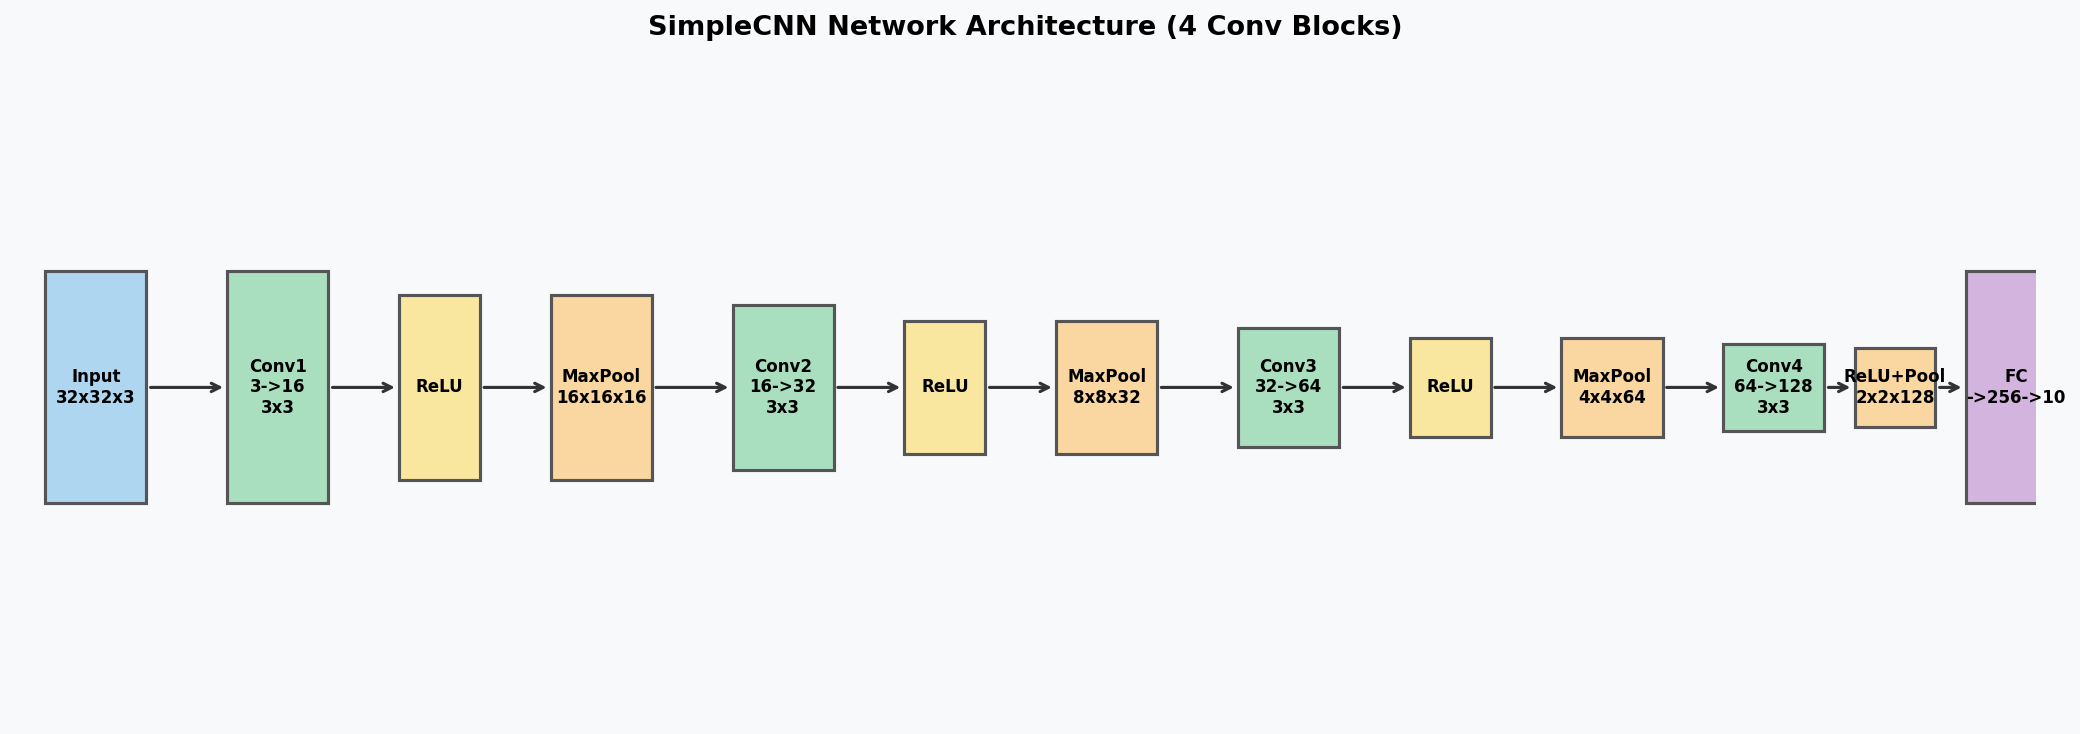
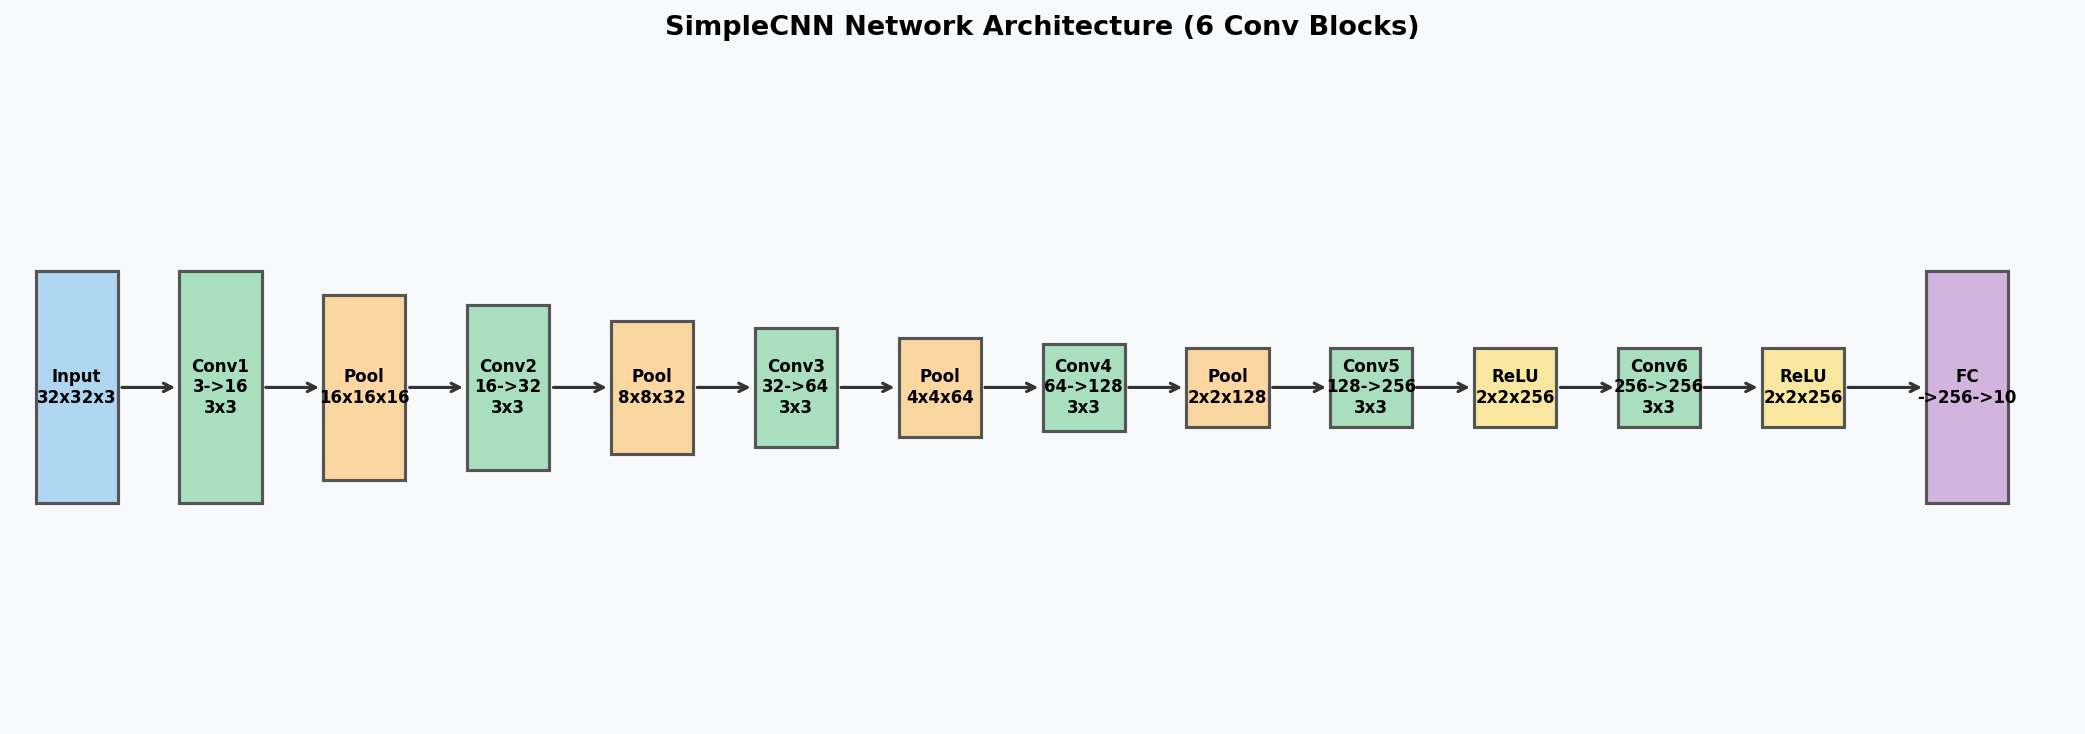
feat: add Conv5/Conv6 blocks to create 6-layer architecture (deeper-6conv)

Changed region(s): [[0.0, 0.3597, 1.0, 0.6894], [0.3125, 0.0, 0.6875, 0.0599]]

diff --git a/cnn_visualize.py b/cnn_visualize.py
@@ -2,11 +2,13 @@
 CNN Training & Visualization Sample (study session)
 Dataset : CIFAR-10 (auto-download)
 Network :
-    Conv1(3->16,  3x3) -> ReLU -> MaxPool(2x2)   32x32 -> 16x16
-    Conv2(16->32, 3x3) -> ReLU -> MaxPool(2x2)   16x16 ->  8x8
-    Conv3(32->64, 3x3) -> ReLU -> MaxPool(2x2)    8x8  ->  4x4
-    Conv4(64->128,3x3) -> ReLU -> MaxPool(2x2)    4x4  ->  2x2
-    Flatten -> FC(128x2x2->256) -> ReLU -> FC(256->10)
+    Conv1(3->16,   3x3) -> ReLU -> MaxPool(2x2)   32x32 -> 16x16
+    Conv2(16->32,  3x3) -> ReLU -> MaxPool(2x2)   16x16 ->  8x8
+    Conv3(32->64,  3x3) -> ReLU -> MaxPool(2x2)    8x8  ->  4x4
+    Conv4(64->128, 3x3) -> ReLU -> MaxPool(2x2)    4x4  ->  2x2
+    Conv5(128->256,3x3) -> ReLU                    2x2  ->  2x2  (no pool)
+    Conv6(256->256,3x3) -> ReLU                    2x2  ->  2x2  (no pool)
+    Flatten -> FC(256x2x2->256) -> ReLU -> FC(256->10)
 
 Output files:
     output/01_network_architecture.png  network architecture diagram
@@ -16,8 +18,10 @@ Output files:
     output/05_conv2_feature_maps.png    Conv2 feature maps (single test image)
     output/06_conv3_feature_maps.png    Conv3 feature maps (single test image)
     output/07_conv4_feature_maps.png    Conv4 feature maps (single test image)
-    output/08_activation_comparison.png activation distribution before/after ReLU
-    output/09_test_predictions.png      test image prediction results
+    output/08_conv5_feature_maps.png    Conv5 feature maps (single test image)
+    output/09_conv6_feature_maps.png    Conv6 feature maps (single test image)
+    output/10_activation_comparison.png activation distribution before/after ReLU
+    output/11_test_predictions.png      test image prediction results
 """
 
 import os
@@ -55,11 +59,13 @@ print(f"Device: {DEVICE}")
 # PPPPPPPPPPPPPPPPPPPPPPPPPPPPPPPPPPPPPPPPPPPPPPPPPPPPPPPPPP
 class SimpleCNN(nn.Module):
     """
-    Conv(3->16)   -> ReLU -> MaxPool   32x32 -> 16x16
-    Conv(16->32)  -> ReLU -> MaxPool   16x16 ->  8x8
-    Conv(32->64)  -> ReLU -> MaxPool    8x8  ->  4x4
-    Conv(64->128) -> ReLU -> MaxPool    4x4  ->  2x2
-    FC(128x2x2->256) -> ReLU -> FC(256->10)
+    Conv(3->16)    -> ReLU -> MaxPool   32x32 -> 16x16
+    Conv(16->32)   -> ReLU -> MaxPool   16x16 ->  8x8
+    Conv(32->64)   -> ReLU -> MaxPool    8x8  ->  4x4
+    Conv(64->128)  -> ReLU -> MaxPool    4x4  ->  2x2
+    Conv(128->256) -> ReLU               2x2  ->  2x2  (no pool)
+    Conv(256->256) -> ReLU               2x2  ->  2x2  (no pool)
+    FC(256x2x2->256) -> ReLU -> FC(256->10)
     """
     def __init__(self):
         super().__init__()
@@ -83,9 +89,17 @@ class SimpleCNN(nn.Module):
                                kernel_size=3, padding=1)
         self.pool4 = nn.MaxPool2d(kernel_size=2, stride=2)
 
+        # block 5 (no pool: spatial size is already 2x2)
+        self.conv5 = nn.Conv2d(in_channels=128, out_channels=256,
+                               kernel_size=3, padding=1)
+
+        # block 6 (no pool)
+        self.conv6 = nn.Conv2d(in_channels=256, out_channels=256,
+                               kernel_size=3, padding=1)
+
         # fully connected layers
-        # CIFAR-10: 32x32 -> 16x16 -> 8x8 -> 4x4 -> 2x2
-        self.fc1 = nn.Linear(128 * 2 * 2, 256)
+        # CIFAR-10: 32x32 -> 16x16 -> 8x8 -> 4x4 -> 2x2 (conv5,6 keep 2x2)
+        self.fc1 = nn.Linear(256 * 2 * 2, 256)
         self.fc2 = nn.Linear(256, 10)
 
         self.relu = nn.ReLU()
@@ -95,6 +109,8 @@ class SimpleCNN(nn.Module):
         x = self.pool2(self.relu(self.conv2(x)))
         x = self.pool3(self.relu(self.conv3(x)))
         x = self.pool4(self.relu(self.conv4(x)))
+        x = self.relu(self.conv5(x))
+        x = self.relu(self.conv6(x))
         x = x.view(x.size(0), -1)   # Flatten
         x = self.relu(self.fc1(x))
         x = self.fc2(x)
@@ -120,6 +136,12 @@ class SimpleCNN(nn.Module):
         after_relu4 = self.relu(after_conv4)
         after_pool4 = self.pool4(after_relu4)
 
+        after_conv5 = self.conv5(after_pool4)
+        after_relu5 = self.relu(after_conv5)
+
+        after_conv6 = self.conv6(after_relu5)
+        after_relu6 = self.relu(after_conv6)
+
         out["conv1_before_relu"] = after_conv1.detach()
         out["conv1_after_relu"]  = after_relu1.detach()
         out["pool1"]             = after_pool1.detach()
@@ -132,6 +154,10 @@ class SimpleCNN(nn.Module):
         out["conv4_before_relu"] = after_conv4.detach()
         out["conv4_after_relu"]  = after_relu4.detach()
         out["pool4"]             = after_pool4.detach()
+        out["conv5_before_relu"] = after_conv5.detach()
+        out["conv5_after_relu"]  = after_relu5.detach()
+        out["conv6_before_relu"] = after_conv6.detach()
+        out["conv6_after_relu"]  = after_relu6.detach()
         return out
 
 
@@ -235,19 +261,20 @@ def save_network_architecture():
 
     # block definition: (x_center, y_center, width, height, label, color)
     blocks = [
-        (0.04, 0.5, 0.05, 0.35, "Input\n32x32x3",       "#AED6F1"),
-        (0.13, 0.5, 0.05, 0.35, "Conv1\n3->16\n3x3",    "#A9DFBF"),
-        (0.21, 0.5, 0.04, 0.28, "ReLU",                 "#F9E79F"),
-        (0.29, 0.5, 0.05, 0.28, "MaxPool\n16x16x16",    "#FAD7A0"),
-        (0.38, 0.5, 0.05, 0.25, "Conv2\n16->32\n3x3",   "#A9DFBF"),
-        (0.46, 0.5, 0.04, 0.20, "ReLU",                 "#F9E79F"),
-        (0.54, 0.5, 0.05, 0.20, "MaxPool\n8x8x32",      "#FAD7A0"),
-        (0.63, 0.5, 0.05, 0.18, "Conv3\n32->64\n3x3",   "#A9DFBF"),
-        (0.71, 0.5, 0.04, 0.15, "ReLU",                 "#F9E79F"),
-        (0.79, 0.5, 0.05, 0.15, "MaxPool\n4x4x64",      "#FAD7A0"),
-        (0.87, 0.5, 0.05, 0.13, "Conv4\n64->128\n3x3",  "#A9DFBF"),
-        (0.93, 0.5, 0.04, 0.12, "ReLU+Pool\n2x2x128",  "#FAD7A0"),
-        (0.99, 0.5, 0.05, 0.35, "FC\n->256->10",        "#D2B4DE"),
+        (0.03, 0.5, 0.04, 0.35, "Input\n32x32x3",        "#AED6F1"),
+        (0.10, 0.5, 0.04, 0.35, "Conv1\n3->16\n3x3",     "#A9DFBF"),
+        (0.17, 0.5, 0.04, 0.28, "Pool\n16x16x16",        "#FAD7A0"),
+        (0.24, 0.5, 0.04, 0.25, "Conv2\n16->32\n3x3",    "#A9DFBF"),
+        (0.31, 0.5, 0.04, 0.20, "Pool\n8x8x32",          "#FAD7A0"),
+        (0.38, 0.5, 0.04, 0.18, "Conv3\n32->64\n3x3",    "#A9DFBF"),
+        (0.45, 0.5, 0.04, 0.15, "Pool\n4x4x64",          "#FAD7A0"),
+        (0.52, 0.5, 0.04, 0.13, "Conv4\n64->128\n3x3",   "#A9DFBF"),
+        (0.59, 0.5, 0.04, 0.12, "Pool\n2x2x128",         "#FAD7A0"),
+        (0.66, 0.5, 0.04, 0.12, "Conv5\n128->256\n3x3",  "#A9DFBF"),
+        (0.73, 0.5, 0.04, 0.12, "ReLU\n2x2x256",         "#F9E79F"),
+        (0.80, 0.5, 0.04, 0.12, "Conv6\n256->256\n3x3",  "#A9DFBF"),
+        (0.87, 0.5, 0.04, 0.12, "ReLU\n2x2x256",         "#F9E79F"),
+        (0.95, 0.5, 0.04, 0.35, "FC\n->256->10",         "#D2B4DE"),
     ]
 
     for (x, y, w, h, label, color) in blocks:
@@ -268,7 +295,7 @@ def save_network_architecture():
 
     ax.set_xlim(0, 1)
     ax.set_ylim(0, 1)
-    ax.set_title("SimpleCNN Network Architecture (4 Conv Blocks)", fontsize=13, fontweight="bold", pad=10)
+    ax.set_title("SimpleCNN Network Architecture (6 Conv Blocks)", fontsize=13, fontweight="bold", pad=10)
 
     path = os.path.join(OUTPUT_DIR, "01_network_architecture.png")
     plt.tight_layout()
@@ -364,12 +391,15 @@ def save_feature_maps(model, image_tensor, label_idx, layer="conv1"):
     ax_img.axis("off")
 
     layer_labels = {
-        "conv1": "Conv1 (16ch, 16x16)",
-        "conv2": "Conv2 (32ch,  8x8)",
-        "conv3": "Conv3 (64ch,  4x4)",
-        "conv4": "Conv4 (128ch, 2x2)",
+        "conv1": "Conv1 (16ch,  16x16)",
+        "conv2": "Conv2 (32ch,   8x8)",
+        "conv3": "Conv3 (64ch,   4x4)",
+        "conv4": "Conv4 (128ch,  2x2)",
+        "conv5": "Conv5 (256ch,  2x2)",
+        "conv6": "Conv6 (256ch,  2x2)",
     }
-    layer_suffixes = {"conv1": "04", "conv2": "05", "conv3": "06", "conv4": "07"}
+    layer_suffixes = {"conv1": "04", "conv2": "05", "conv3": "06",
+                      "conv4": "07", "conv5": "08", "conv6": "09"}
     fig.suptitle(f"{layer_labels[layer]} Feature Maps (after ReLU)\n"
                  "Brighter = stronger activation",
                  fontsize=11, fontweight="bold", y=1.01)
@@ -397,7 +427,7 @@ def save_activation_comparison(model, image_tensor):
     with torch.no_grad():
         feat_maps = model.get_feature_maps(image_tensor.unsqueeze(0).to(DEVICE))
 
-    fig, axes = plt.subplots(4, 2, figsize=(12, 16))
+    fig, axes = plt.subplots(6, 2, figsize=(12, 22))
     fig.suptitle("Activation Distribution: Before vs After ReLU", fontsize=12, fontweight="bold")
 
     pairs = [
@@ -405,6 +435,8 @@ def save_activation_comparison(model, image_tensor):
         ("conv2_before_relu", "conv2_after_relu", "Conv2"),
         ("conv3_before_relu", "conv3_after_relu", "Conv3"),
         ("conv4_before_relu", "conv4_after_relu", "Conv4"),
+        ("conv5_before_relu", "conv5_after_relu", "Conv5"),
+        ("conv6_before_relu", "conv6_after_relu", "Conv6"),
     ]
 
     for row, (key_before, key_after, title) in enumerate(pairs):
@@ -430,7 +462,7 @@ def save_activation_comparison(model, image_tensor):
                   bbox=dict(boxstyle="round", facecolor="#F9E79F", alpha=0.8))
 
     plt.tight_layout()
-    path = os.path.join(OUTPUT_DIR, "08_activation_comparison.png")
+    path = os.path.join(OUTPUT_DIR, "10_activation_comparison.png")
     plt.savefig(path, dpi=150, bbox_inches="tight")
     plt.close()
     print(f"Saved: {path}")
@@ -456,8 +488,11 @@ def save_feature_maps_overlay(model, image_tensor, label_idx, layer="conv1"):
         "conv2": "Conv2 (32ch,  8x8)",
         "conv3": "Conv3 (64ch,  4x4)",
         "conv4": "Conv4 (128ch, 2x2)",
+        "conv5": "Conv5 (256ch, 2x2)",
+        "conv6": "Conv6 (256ch, 2x2)",
     }
-    layer_suffixes = {"conv1": "10", "conv2": "11", "conv3": "12", "conv4": "13"}
+    layer_suffixes = {"conv1": "12", "conv2": "13", "conv3": "14",
+                      "conv4": "15", "conv5": "16", "conv6": "17"}
 
     fig, axes = plt.subplots(rows + 1, cols,
                              figsize=(cols * 1.8 + 0.6, (rows + 1) * 1.8 + 1))
@@ -550,7 +585,7 @@ def save_test_predictions(model, testset, n=16):
         ax.axis("off")
 
     plt.tight_layout()
-    path = os.path.join(OUTPUT_DIR, "09_test_predictions.png")
+    path = os.path.join(OUTPUT_DIR, "11_test_predictions.png")
     plt.savefig(path, dpi=150, bbox_inches="tight")
     plt.close()
     print(f"Saved: {path}")
@@ -596,11 +631,15 @@ if __name__ == "__main__":
     save_feature_maps(model, sample_image, sample_label, layer="conv2")
     save_feature_maps(model, sample_image, sample_label, layer="conv3")
     save_feature_maps(model, sample_image, sample_label, layer="conv4")
+    save_feature_maps(model, sample_image, sample_label, layer="conv5")
+    save_feature_maps(model, sample_image, sample_label, layer="conv6")
     save_activation_comparison(model, sample_image)
     save_feature_maps_overlay(model, sample_image, sample_label, layer="conv1")
     save_feature_maps_overlay(model, sample_image, sample_label, layer="conv2")
     save_feature_maps_overlay(model, sample_image, sample_label, layer="conv3")
     save_feature_maps_overlay(model, sample_image, sample_label, layer="conv4")
+    save_feature_maps_overlay(model, sample_image, sample_label, layer="conv5")
+    save_feature_maps_overlay(model, sample_image, sample_label, layer="conv6")
 
     # step 8: save test predictions
     print("\n[7/7] Saving test predictions...")

diff --git a/README.md b/README.md
@@ -21,7 +21,7 @@ cnn-ws/
 ├── cnn_visualize.py          # メインスクリプト
 ├── requiements.txt           # 依存ライブラリ
 ├── data/                     # CIFAR-10 データセット（自動ダウンロード・gitignore済み）
-└── output/                   # 生成された可視化画像（13枚）
+└── output/                   # 生成された可視化画像（17枚）
     ├── 01_network_architecture.png
     ├── 02_conv1_filters.png
     ├── 03_training_curve.png
@@ -29,12 +29,16 @@ cnn-ws/
     ├── 05_conv2_feature_maps.png
     ├── 06_conv3_feature_maps.png
     ├── 07_conv4_feature_maps.png
-    ├── 08_activation_comparison.png
-    ├── 09_test_predictions.png
-    ├── 10_conv1_overlay.png
-    ├── 11_conv2_overlay.png
-    ├── 12_conv3_overlay.png
-    └── 13_conv4_overlay.png
+    ├── 08_conv5_feature_maps.png
+    ├── 09_conv6_feature_maps.png
+    ├── 10_activation_comparison.png
+    ├── 11_test_predictions.png
+    ├── 12_conv1_overlay.png
+    ├── 13_conv2_overlay.png
+    ├── 14_conv3_overlay.png
+    ├── 15_conv4_overlay.png
+    ├── 16_conv5_overlay.png
+    └── 17_conv6_overlay.png
 ```
 
 ---
@@ -56,8 +60,12 @@ cnn-ws/
 | Conv4 | Conv2d | in=64, out=128, kernel=3×3, padding=1 | 4×4×128 |
 | ReLU | 活性化関数 | — | 4×4×128 |
 | Pool4 | MaxPool2d | kernel=2×2, stride=2 | 2×2×128 |
-| Flatten | — | — | 512 |
-| FC1 | Linear | in=512, out=256 | 256 |
+| Conv5 | Conv2d | in=128, out=256, kernel=3×3, padding=1 | 2×2×256 |
+| ReLU | 活性化関数 | — | 2×2×256 |
+| Conv6 | Conv2d | in=256, out=256, kernel=3×3, padding=1 | 2×2×256 |
+| ReLU | 活性化関数 | — | 2×2×256 |
+| Flatten | — | — | 1024 |
+| FC1 | Linear | in=1024, out=256 | 256 |
 | ReLU | 活性化関数 | — | 256 |
 | FC2 | Linear | in=256, out=10 | 10（クラス数） |
 
@@ -79,6 +87,10 @@ cnn-ws/
 | `conv4_before_relu` | Conv4 適用後・ReLU 前 |
 | `conv4_after_relu` | ReLU 後 |
 | `pool4` | MaxPool4 後 |
+| `conv5_before_relu` | Conv5 適用後・ReLU 前 |
+| `conv5_after_relu` | ReLU 後 |
+| `conv6_before_relu` | Conv6 適用後・ReLU 前 |
+| `conv6_after_relu` | ReLU 後 |
 
 ---
 
@@ -128,7 +140,7 @@ cnn-ws/
 [3/7] Conv1 フィルタを保存（学習前の初期状態）
 [4/7] 学習（10エポック）
 [5/7] 学習曲線を保存
-[6/7] 特徴マップ・活性化分布・オーバーレイを保存（テスト画像 1枚、全4層）
+[6/7] 特徴マップ・活性化分布・オーバーレイを保存（テスト画像 1枚、全6層）
 [7/7] テスト画像の予測結果を保存
 ```
 
@@ -182,16 +194,28 @@ cnn-ws/
 - 内容: 同一テスト画像の Conv4 出力（ReLU 後）を 128 チャンネル分表示
 - 生成タイミング: **学習後**
 
-### `08_activation_comparison.png` — ReLU 前後の活性化分布
+### `08_conv5_feature_maps.png` — Conv5 特徴マップ
+
+- 関数: `save_feature_maps(model, image_tensor, label_idx, layer="conv5")`
+- 内容: 同一テスト画像の Conv5 出力（ReLU 後）を 256 チャンネル分表示（空間サイズ 2×2）
+- 生成タイミング: **学習後**
+
+### `09_conv6_feature_maps.png` — Conv6 特徴マップ
+
+- 関数: `save_feature_maps(model, image_tensor, label_idx, layer="conv6")`
+- 内容: 同一テスト画像の Conv6 出力（ReLU 後）を 256 チャンネル分表示（空間サイズ 2×2）
+- 生成タイミング: **学習後**
+
+### `10_activation_comparison.png` — ReLU 前後の活性化分布
 
 - 関数: `save_activation_comparison(model, image_tensor)`
-- 内容: 4行×2列のヒストグラム
-  - Conv1〜Conv4 それぞれで ReLU 前後を比較
+- 内容: 6行×2列のヒストグラム
+  - Conv1〜Conv6 それぞれで ReLU 前後を比較
   - ReLU 前: 負の値を含む分布（青色）、x=0 に赤い垂直線
   - ReLU 後: 負の値がゼロにクリップされた分布（緑色）、ゼロ率を表示
 - 生成タイミング: **学習後**
 
-### `09_test_predictions.png` — テスト画像の予測結果
+### `11_test_predictions.png` — テスト画像の予測結果
 
 - 関数: `save_test_predictions(model, testset, n=16)`
 - 内容: テストセット先頭 16 枚を 2行×8列で表示（ブランチ間比較のため固定）
@@ -199,13 +223,13 @@ cnn-ws/
   - タイトルに正解ラベル（GT）と予測ラベル（Pred）を表示
 - 生成タイミング: **学習後**
 
-### `10〜13_conv*_overlay.png` — 特徴マップオーバーレイ
+### `12〜17_conv*_overlay.png` — 特徴マップオーバーレイ
 
 - 関数: `save_feature_maps_overlay(model, image_tensor, label_idx, layer)`
 - 内容: 各層の特徴マップを 32×32 にアップスケールし、元画像に半透明で重ねて表示
   - カラーマップ: viridis（黄=強い反応、紫=弱い反応）
   - 右端にカラーバー（low/mid/high）付き
-  - Conv1〜Conv4 の4層分を個別ファイルで出力
+  - Conv1〜Conv6 の6層分を個別ファイルで出力
 - 生成タイミング: **学習後**
 
 ---
